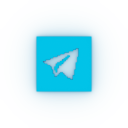
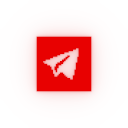
finished the html

Changed region(s): [[0.2188, 0.2188, 0.7812, 0.7812]]

diff --git a/index.html b/index.html
@@ -6,7 +6,7 @@
     <meta name="viewport" content="width=device-width, initial-scale=1.0" />
     <link rel="stylesheet" href="css/stars.css" />
     <link rel="stylesheet" href="css/style.css" />
-    <title>Document</title>
+    <title>Apocalipse - skate crew</title>
   </head>
 
   <body>
@@ -17,26 +17,26 @@
     <header>
     <div class="title">
       <div id="language_div"></div>
-
       <!-- <img />placeholder -->
-      <h1>Apocalipse</h1>
-     <div>
+      <img class="globe" src="img/global-grid.png"/>
+      
+      <div>
       <a id="youtube_link" class="tooltip" target="_blank" href="index.html"
-        ><img class="zoom" src="img/YouTube.png" alt="videos" width="64" /><span
+        ><img class="zoom" src="img/YouTube.png" alt="videos"  /><span
           id="youtube_text"
           class="tooltip-text"
           >Youtube (offline)</span
         ></a
       >
       <a id="email_link" class="tooltip" target="_blank" href="index.html"
-        ><img class="zoom" src="img/Mail.png" alt="E-mail" width="64" /><span
+        ><img class="zoom" src="img/Mail.png" alt="E-mail"  /><span
           id="email_text"
           class="tooltip-text"
           >E-mail</span
         ></a
       >
       <a id="chat_link" class="tooltip" target="_blank" href="index.html"
-        ><img class="zoom" src="img/Chat.png" alt="Chat" width="64" /><span
+        ><img class="zoom" src="img/Chat.png" alt="Chat" /><span
           id="chat_text"
           class="tooltip-text"
           >Forum (offline)</span
@@ -47,7 +47,7 @@
           class="zoom"
           src="img/Telegram.png"
           alt="Telegram"
-          width="64"
+          
         /><span id="telegram_text" class="tooltip-text">Telegram</span></a
       >
       <a id="discord_link" class="tooltip" target="_blank" href="index.html"
@@ -55,19 +55,19 @@
           class="zoom"
           src="img/Discord.png"
           alt="discord"
-          width="64"
+          
         /><span id="discord" class="tooltip-text">Discord</span></a
       ></div>
 
       <p class="blink" id="ads_string" style="line-height: 1.25">
         Social:
-        <a target="_blank" class="yellow-text" href="index.html">teste 1</a
-        ><br /><br />Super teste 2
-        <a target="_blank" class="red-text" href="index.html">teste 1</a
-        ><br /><br />Super teste 2
-        <a target="_blank" class="lime-text" href="index.html">teste 1</a
-        ><br /><br />Super teste 2
-        <a class="cyan-text" href="mailto:">teste@email.com</a>
+        <a target="_blank" class="hacker-text" href="index.html">Instagram</a
+        ><br /><br />Loja:
+        <a target="_blank" class="hacker-text" href="index.html">teste.loja.com</a
+        ><br /><br />Videos:
+        <a target="_blank" class="hacker-text" href="index.html">teste.videos.com</a
+        ><br /><br />Email:
+        <a class="hacker-text" href="mailto:">teste@email.com</a>
       </p>
     </div>
   </header>
@@ -79,14 +79,14 @@
           id="product-title"
           class="divTableHeadCyan"
           style="text-align: center"
-        ><h1>Apocalipse</h1>
+        ><h1>Apocalipse Video Part</h1>
         </div>
         </div>
      
       <div class="divTableBody">
         <div class="divTableRow" style="height: 512px">
           <div id="product-video" class="divTableCellInfo" style="background: rgba(0,0,0,1)">
-            <video poster="" controls="" width="100%" height="auto">
+            <video poster="img/Surv Rav Desktop.jpg" controls="" width="100%" height="auto">
             <source src="img/Retrowave Grid Loop.mp4" type="video/mp4"></video>
         </div>
         </div>
@@ -122,8 +122,8 @@
 
     <div style="text-align: center;">
     <marquee id="contacts_string" class="extended-width" scrollamount="10" behavior="scroll" direction="left" onmouseover="this.stop();" onmouseout="this.start();"><span>
-      perguntas e sugestões:<a class="lime-text" target="_blank" href="#"> Contato Apocalipse</a>
-     , Discord:<a class="magenta-text" target="_blank" href="#"> https://discord.gg</a>
+      perguntas e sugestões:<a class="lime-text" target="_blank" href="#"> https://apocalipse.com</a>
+     , Discord:<a class="lime-text" target="_blank" href="#"> https://discord.gg</a>
      , Telegram:<a class="lime-text" target="_blank" href="#"> https://telegram.com</a>
       , Vk:<a class="lime-text" target="_blank" href="#"> https://vk.com</a>
     </span>
@@ -137,7 +137,7 @@
 </div>
 </div>
 
-<script></script>
+
   </div>
 </div>
 </body>

diff --git a/css/style.css b/css/style.css
@@ -13,13 +13,14 @@
   }
 }
 html {
-  background: radial-gradient(ellipse at bottom, #223142 0%, #000000 100%);
+  background: radial-gradient(ellipse at bottom, #060102 0%, #000000 100%);
   background-attachment: fixed;
-  color: #fff;
+  color: #a2a2a2;
   font-family: "Press Start 2P", sans-serif;
   font-size: 14px;
   text-shadow: 0 0 10px rgba(255, 255, 255, 0.25);
-  min-width: 512;
+  min-width: 300;
+  overflow-x: hidden;
 }
 h1,
 h2,
@@ -32,16 +33,20 @@ h3 {
 }
 a {
   text-decoration: none;
-  color: #fff;
+  color: #a2a2a2;
   outline: none;
 }
 body {
   animation: out_of_alpha 3s;
+  overflow-x: hidden;
 }
 #language_div {
   display: none;
   padding-top: 10px;
   line-height: 2;
+}
+.globe {
+  width: 512px;
 }
 @keyframes out_of_alpha {
   0% {
@@ -57,7 +62,7 @@ body {
 .title {
   text-align: center;
   width: 100%;
-  margin: 2rem;
+  margin: 2px;
   min-width: 512;
   display: inline-block;
 }
@@ -66,9 +71,9 @@ body {
   align-items: center;
   justify-content: center;
 } */
-
 .zoom {
   transition: transform 0.2s;
+  width: 64px;
 }
 .zoom:hover {
   transform: scale(2);
@@ -81,7 +86,7 @@ body {
   visibility: hidden;
   width: 150px;
   background: black;
-  color: #fff;
+  color: #a2a2a2;
   text-align: center;
   padding: 3px 0;
   line-height: 2;
@@ -107,6 +112,10 @@ body {
     opacity: 1;
   }
 }
+.hacker-text {
+  color: #fd0000;
+  text-shadow: 0 0 10px rgba(253, 0, 0, 0.5);
+}
 .yellow-text {
   color: #f3d26c;
   text-shadow: 0 0 10px rgba(255, 255, 0, 0.3);
@@ -116,8 +125,8 @@ body {
   text-shadow: 0 0 10px rgba(212, 148, 147);
 }
 .lime-text {
-  color: #db57d3;
-  text-shadow: 0 0 10px rgba(219, 87, 211);
+  color: #fd0000;
+  text-shadow: 0 0 10px rgba(253, 0, 0, 0.5);
 }
 .cyan-text {
   color: #bb1ccb;
@@ -153,7 +162,7 @@ marquee {
   margin: 10px;
   height: 40px;
   background: rgba(0, 0, 0, 0.2);
-  color: #2de2e6;
+  color: #eeeeee;
   text-shadow: 0 0 10px rgba(45, 226, 230, 0.3);
   max-width: 1480px;
 }
@@ -220,7 +229,7 @@ pre {
 .divTableCellButtons,
 .divTableHead {
   background: rgba(0, 0, 0, 0.2);
-  color: white;
+  color: #a2a2a2;
 }
 .divTableCell {
   cursor: pointer;
@@ -262,9 +271,9 @@ pre {
 }
 
 .divTableHeadCyan {
-  background: rgb(151, 0, 204, 0.3);
-  color: cyan;
-  text-shadow: 0 0 10px rgba(0, 255, 255, 0.3);
+  background: rgb(6, 1, 2);
+  color: rgb(209, 209, 209);
+  text-shadow: 0 0 10px rgba(162, 162, 162, 0.5);
 }
 
 .divTableHeadMagenta {
@@ -279,9 +288,9 @@ pre {
 }
 /* buy button */
 a.buy-btn {
-  background-color: #9700cc;
-  color: #db57d3;
-  text-shadow: 0 0 10px #f6019d;
+  background-color: #fd0000;
+  color: #fff;
+  text-shadow: 0 0 10px #a2a2a2;
   border: none;
   padding-left: 10px;
   padding-right: 10px;
@@ -293,11 +302,13 @@ a.buy-btn {
   width: auto;
   min-width: 280px;
   line-height: 2;
+  border-radius: 5px;
 }
 a.buy-btn:hover {
   color: #fff;
   text-shadow: 0 0 10px rgba(255, 255, 255, 0.3);
-  background-color: #f6019d;
+  background-color: #a80000;
+  transition: all 0.5s;
 }
 
 /* a.ask-btn {
@@ -313,8 +324,41 @@ a.buy-btn:hover {
   display: inline-block;
   width: auto;
   line-height: 2;
-}
-a.ask-btn:hover {
+}style="width: 512px"
   color: white;
   background-color: rgba(0, 255, 255, 0.5);
 } */
+/* queries */
+@media (max-width: 34em) {
+  .globe {
+    width: 300px;
+    margin-top: 20px;
+  }
+  .title {
+    text-align: center;
+    width: 100%;
+    margin: 1px;
+    min-width: 512;
+    display: inline-block;
+  }
+  .zoom {
+    margin-top: 40px;
+    transition: transform 0.2s;
+    width: 54px;
+  }
+  .tooltip .tooltip-text {
+    visibility: hidden;
+    width: 150px;
+    background: black;
+    color: #a2a2a2;
+    text-align: center;
+    padding: 1px 0;
+    line-height: 1;
+
+    position: absolute;
+    z-index: 1;
+    top: calc(100% + 10px);
+    left: 50%;
+    margin-left: -75px;
+  }
+}
